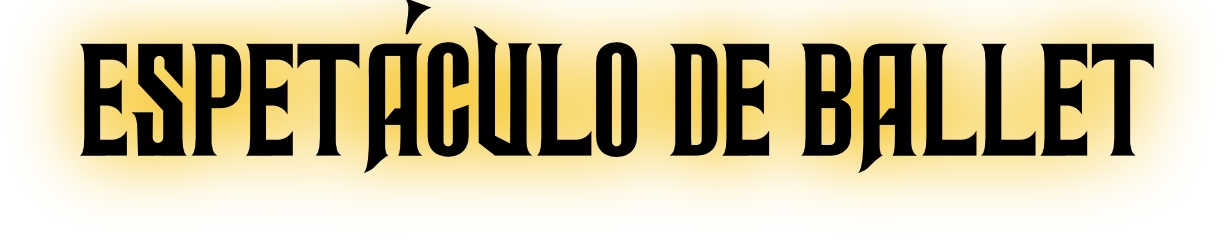
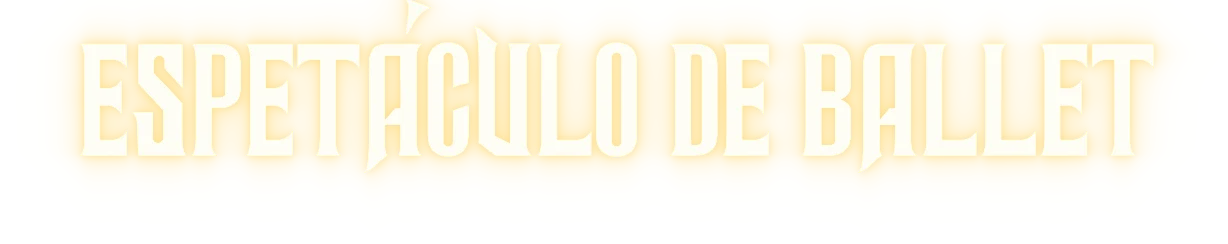
feat: título do espetáculo num bloco só, com o mesmo brilho do panfleto
"Espetáculo de Ballet" passa a ter letra clara com brilho dourado e fica
colado em "O Mágico de Oz" na home, em /ballet e em /programa_ballet.

diff --git a/app/ballet/programa.css b/app/ballet/programa.css
@@ -36,8 +36,8 @@
 	background: linear-gradient(180deg, rgba(6, 11, 9, 0.55) 0%, rgba(6, 11, 9, 0) 28%, rgba(6, 11, 9, 0.15) 55%, var(--bg) 96%);
 }
 .prog .hero-inner { padding: 0 16px 40px; max-width: 720px; margin: 0 auto; width: 100%; text-align: center; }
-.prog .hero .espetaculo { width: min(78%, 420px); margin: 0 auto 4px; opacity: 0; animation: prog-rise 1s 0.2s cubic-bezier(0.2, 0.7, 0.2, 1) forwards; }
-.prog .hero .titulo { width: min(74%, 380px); margin: 0 auto; opacity: 0; animation: prog-rise 1.1s 0.5s cubic-bezier(0.2, 0.7, 0.2, 1) forwards, prog-glow 4s 1.6s ease-in-out infinite; }
+.prog .hero .espetaculo { width: min(78%, 420px); margin: 0 auto; opacity: 0; animation: prog-rise 1s 0.2s cubic-bezier(0.2, 0.7, 0.2, 1) forwards; }
+.prog .hero .titulo { width: min(74%, 380px); margin: calc(min(74%, 380px) * -0.18) auto 0; opacity: 0; animation: prog-rise 1.1s 0.5s cubic-bezier(0.2, 0.7, 0.2, 1) forwards, prog-glow 4s 1.6s ease-in-out infinite; }
 .prog .hero .quando { margin-top: 18px; font: 600 clamp(20px, 5.4vw, 28px)/1.15 var(--display); letter-spacing: 0.04em; text-transform: uppercase; opacity: 0; animation: prog-rise 1s 0.9s cubic-bezier(0.2, 0.7, 0.2, 1) forwards; }
 .prog .hero .quando span { color: var(--gold); }
 .prog .hero .por { margin-top: 18px; display: inline-flex; align-items: center; gap: 10px; color: var(--muted); font-size: 13px; opacity: 0; animation: prog-rise 1s 1.1s forwards; }

diff --git a/app/routes/ballet.tsx b/app/routes/ballet.tsx
@@ -50,7 +50,7 @@ export default function Ballet() {
 						<img
 							src='/espetaculo/titulo.webp'
 							alt={ESPETACULO.titulo}
-							className='oz-surgir oz-titulo mx-auto mt-2 w-[min(70%,360px)]'
+							className='oz-surgir oz-titulo mx-auto mt-[calc(min(70%,360px)*-0.18)] w-[min(70%,360px)]'
 						/>
 						<p
 							className='oz-surgir mt-5 text-xl font-bold uppercase tracking-wide sm:text-2xl'

diff --git a/app/components/BannerBallet.tsx b/app/components/BannerBallet.tsx
@@ -88,7 +88,7 @@ export default function BannerBallet() {
 					<img
 						src='/espetaculo/titulo.webp'
 						alt={ESPETACULO.titulo}
-						className='oz-brilho mx-auto mt-2 w-2/3 sm:mx-0 sm:w-1/2'
+						className='oz-brilho mx-auto -mt-[12%] w-2/3 sm:mx-0 sm:-mt-[9%] sm:w-1/2'
 					/>
 				</div>
 
